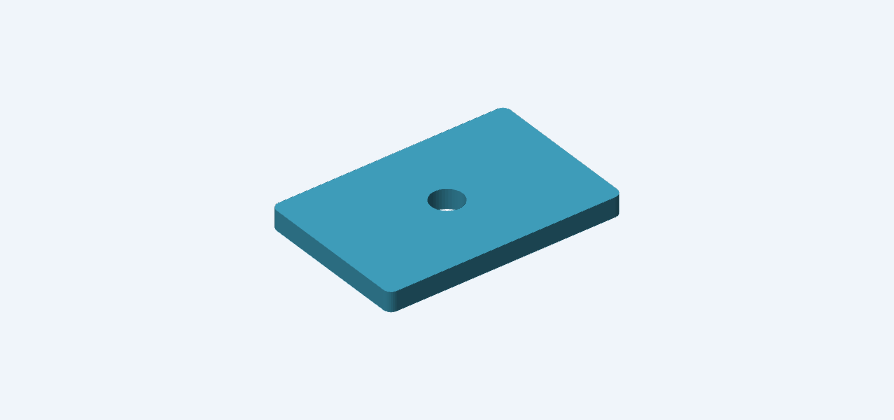
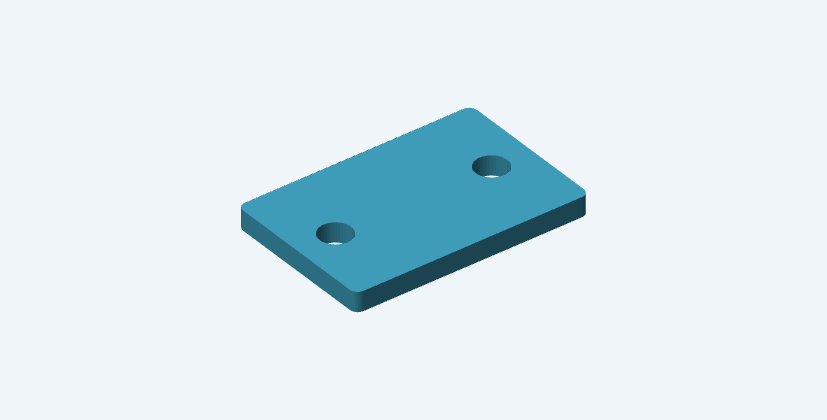
Embed interactive model previews in HexDocs

diff --git a/priv/docs/viewer.js b/priv/docs/viewer.js
@@ -1,0 +1,19 @@
+import { init } from './renderer/main.js';
+
+const root = document.getElementById('preview');
+try {
+  const name = new URL(window.location.href).searchParams.get('model');
+  if (!name || !/^[a-z0-9-]+$/.test(name)) throw new Error('Unknown model.');
+  const response = await fetch(new URL(`./models/${name}.json`, import.meta.url));
+  if (!response.ok) throw new Error('The model data could not be loaded.');
+  const data = await response.json();
+  document.title = `${data.label} — Smith preview`;
+  root.replaceChildren();
+  init({root}, data);
+} catch (error) {
+  root.replaceChildren();
+  const message = document.createElement('p');
+  message.setAttribute('role', 'alert');
+  message.textContent = `Preview unavailable. ${error.message}`;
+  root.append(message);
+}

diff --git a/priv/docs/docs.js b/priv/docs/docs.js
@@ -1,0 +1,17 @@
+function mountPreviews() {
+  for (const element of document.querySelectorAll('.smith-doc-preview[data-preview]')) {
+    if (element.querySelector('iframe')) continue;
+    const frame = document.createElement('iframe');
+    const url = new URL('./viewer.html', import.meta.url);
+    url.searchParams.set('model', element.dataset.preview);
+    frame.src = url.href;
+    frame.title = `${element.dataset.label} — interactive 3D preview`;
+    frame.loading = 'lazy';
+    frame.allow = 'fullscreen';
+    frame.style.cssText = 'display:block;width:100%;height:500px;border:0;margin:1rem 0;';
+    element.replaceChildren(frame);
+  }
+}
+
+mountPreviews();
+window.addEventListener('exdoc:loaded', mountPreviews);

diff --git a/priv/kino/main.js b/priv/kino/main.js
@@ -43,7 +43,7 @@ export function init(ctx, data) {
     const active = document.fullscreenElement === panel;
     fullscreen.textContent = active ? "Exit fullscreen" : "Fullscreen";
     fullscreen.setAttribute("aria-pressed", String(active));
-    fullscreen.title = active ? "Return to the notebook (Esc)" : "Show the 3D preview fullscreen";
+    fullscreen.title = active ? "Exit fullscreen (Esc)" : "Show the 3D preview fullscreen";
   });
   const gl = canvas.getContext("webgl", {antialias: true, preserveDrawingBuffer: true});
   if (!gl) { caption.textContent = "WebGL is unavailable in this browser."; save.disabled = true; reset.disabled = true; return; }

diff --git a/priv/docs/viewer.html b/priv/docs/viewer.html
@@ -1,0 +1,14 @@
+<!doctype html>
+<html lang="en">
+<head>
+  <meta charset="utf-8">
+  <meta name="viewport" content="width=device-width, initial-scale=1">
+  <title>Smith 3D preview</title>
+  <style>body { margin: 0; font: 14px system-ui; } p { padding: 1rem; }</style>
+</head>
+<body>
+  <div id="preview"><p role="status">Loading 3D preview…</p></div>
+  <noscript><p>Enable JavaScript to inspect this model in 3D.</p></noscript>
+  <script type="module" src="viewer.js"></script>
+</body>
+</html>

diff --git a/guides/livebook.md b/guides/livebook.md
@@ -34,6 +34,11 @@ Without it, `Smith.Kino.render/2` raises with reason `:kino_not_available`. For 
 notebook previously compiled without Kino, restart its runtime and use
 `Mix.install(deps, force: true)` once, then remove `force: true` for normal use.
 
+The previews on this page use the same renderer as Livebook. Their meshes are
+built from the guide's examples when the documentation is generated. You can
+inspect them here without installing Elixir; open the notebook to edit a recipe
+and rebuild its geometry.
+
 ## Show each stage
 
 Use separate cells for these steps. `render/2` returns the Kino directly, so the
@@ -44,16 +49,28 @@ blank = Smith.box(60, 40, 5)
 Smith.Kino.render(blank, label: "1 · Blank")
 ```
 
+<div class="smith-doc-preview" data-preview="plate-blank" data-model="blank" data-label="Blank">
+<p>Interactive 3D preview available in HexDocs.</p>
+</div>
+
 ```elixir
 rounded = blank |> Smith.fillet(edges: {:parallel, :z}, radius: 2)
 Smith.Kino.render(rounded, label: "2 · Rounded corners")
 ```
+
+<div class="smith-doc-preview" data-preview="plate-rounded" data-model="rounded" data-label="Rounded corners">
+<p>Interactive 3D preview available in HexDocs.</p>
+</div>
 
 ```elixir
 finished = rounded |> Smith.hole(on: :top, diameter: 8, through: :all)
 {:ok, result} = Smith.evaluate(finished)
 Smith.Kino.render(result, label: "3 · Drilled plate")
 ```
+
+<div class="smith-doc-preview" data-preview="plate-drilled" data-model="result" data-label="Drilled plate">
+<p>Interactive 3D preview available in HexDocs.</p>
+</div>
 
 Drag to rotate and scroll to zoom. **Fullscreen** expands the preview to the screen
 while retaining the current camera and controls. Choose **Exit fullscreen** or press

diff --git a/docs/development.md b/docs/development.md
@@ -49,3 +49,28 @@ Without `OCEX_ARCHIVE`, the check fetches OCEx 0.1.0 from Hex. The consumer runs
 outside the checkout with fresh caches and installs both packages from archives;
 it does not use a path dependency. It checks native geometry, STEP exchange,
 serialized STL topology, 3MF contents, and Kino's optional dependency behavior.
+
+## Interactive documentation previews
+
+`mix docs` evaluates marked examples and writes their meshes to the ignored
+`.doc-preview-assets/` directory. ExDoc includes those meshes and the shared Kino
+renderer in its output. Serve `doc/` over HTTP to try the previews locally; browser
+module loading does not work from a `file://` URL.
+
+To add a preview, place this after a guide code block that defines `part`:
+
+```html
+<div class="smith-doc-preview" data-preview="unique-name" data-model="part" data-label="Part">
+<p>Interactive 3D preview available in HexDocs.</p>
+</div>
+```
+
+The name must be unique across the README and guides. The model attribute names
+a variable from the preceding Elixir blocks: a recipe, evaluated result, or
+successful result tuple. The builder evaluates those blocks in document order,
+skipping `Mix.install` because Mix already supplies the dependencies. Temporary
+exports are removed after the build. A failed example stops documentation generation.
+
+Preview frames load on demand. They use the same JavaScript as Livebook and
+contain a mesh snapshot, so editing and reevaluating a design still requires
+Elixir. The fallback text or image remains visible in Markdown and without JavaScript.

diff --git a/guides/assemblies.md b/guides/assemblies.md
@@ -34,6 +34,10 @@ model =
   )
 ```
 
+<div class="smith-doc-preview" data-preview="assembly-installed" data-model="result" data-label="Installed assembly">
+<p>Interactive 3D preview available in HexDocs.</p>
+</div>
+
 Identical recipe terms reused as instances are evaluated once per `Smith.evaluate/1` call. Each instance receives its own installed transform. There is no global cache or assembly process.
 
 ## Inspection views
@@ -41,10 +45,13 @@ Identical recipe terms reused as instances are evaluated once per `Smith.evaluat
 Build a snapshot from an evaluated assembly, then render it:
 
 ```elixir
-result
-|> Smith.Assembly.view(:exploded)
-|> Smith.Kino.render(label: "Exploded assembly")
+exploded = Smith.Assembly.view(result, :exploded)
+Smith.Kino.render(exploded, label: "Exploded assembly")
 ```
+
+<div class="smith-doc-preview" data-preview="assembly-exploded" data-model="exploded" data-label="Exploded assembly">
+<p>Interactive 3D preview available in HexDocs.</p>
+</div>
 
 The default `:installed` mode retains the installed compound. `:display` shows all
 manufactured leaves, including printable extras, with accumulated display offsets.

diff --git a/README.md b/README.md
@@ -4,8 +4,6 @@ Smith is an Elixir CAD library. Build sketches, solids, and named assemblies wit
 
 Smith uses [OCEx](https://hexdocs.pm/ocex). The geometry engine is Open CASCADE Technology (OCCT) 7.9.3.
 
-![A rounded plate with a through hole, rendered by Smith in Livebook](guides/images/plate.png)
-
 ## A printable part in one script
 
 Install the native toolkit using the [installation guide](https://hexdocs.pm/ocex/installation.html), then save this as `mount.exs`:
@@ -26,6 +24,10 @@ model =
 {:ok, files} = Smith.export(result, "output", name: "mount", on_bed: true)
 IO.puts(files.three_mf)
 ```
+
+<div class="smith-doc-preview" data-preview="mount" data-model="result" data-label="Mounting plate">
+<p><img src="guides/images/plate.png" alt="A mounting plate with two holes"></p>
+</div>
 
 Run `elixir mount.exs`. The output bundle includes STEP, BREP, binary STL, and 3MF files, plus a report of the mesh and STEP checks. Every export gets a new directory; earlier exports remain available. 3MF contains printable geometry, without printer or slicer settings.
 

diff --git a/CHANGELOG.md b/CHANGELOG.md
@@ -1,5 +1,9 @@
 # Changelog
 
+## Unreleased
+
+- Embed the shared 3D renderer in HexDocs, with meshes generated from the documented examples.
+
 ## 0.1.0
 
 - Return Kino previews directly and accept piped evaluation/view results; preview failures raise with their reason.
